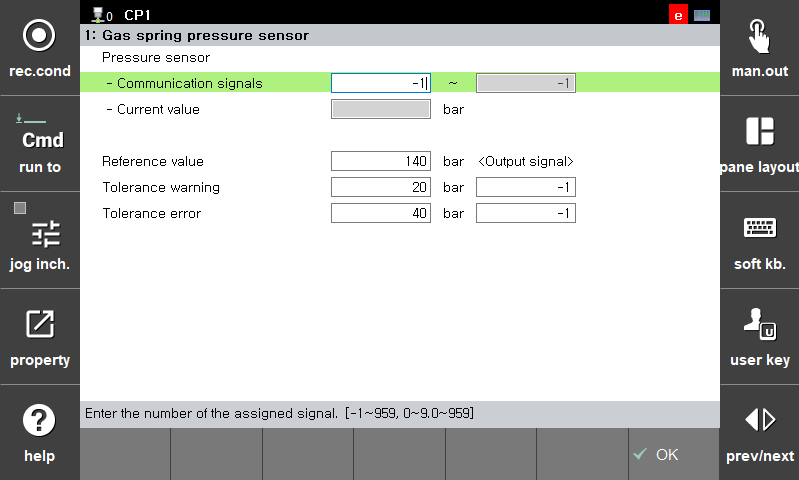
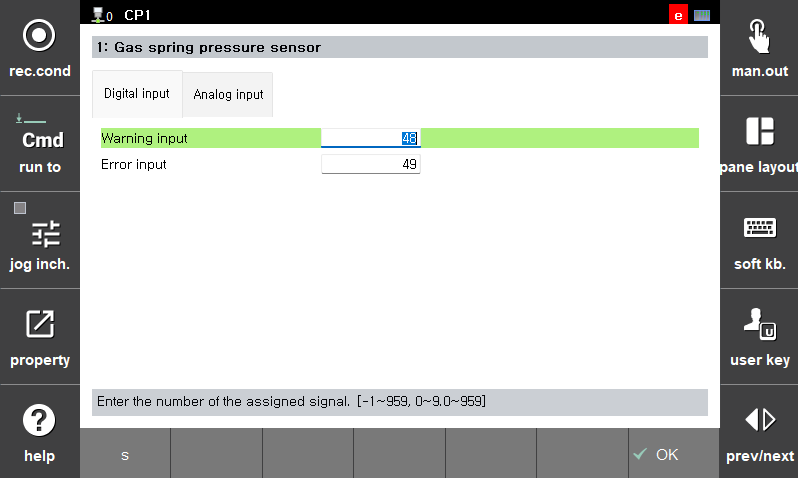
[HIXM-5044] 가스스프링 압력센서 디지털 입력 인터페이스 개발
(cherry picked from commit b3b3189b3095de6ce06d4d383303db639f31d38b)

diff --git a/book.md b/book.md
@@ -6801,9 +6801,42 @@ It is used for various functions to diagnose failures in robot systems.
 
 # 7.4.13.1 Gas spring pressure sensor
 
-The gas spring pressure sensor function is used to detect pressure abnormalities in the gas spring by constantly reading the value of the pressure sensor in a robot that uses a gas spring and has a pressure sensor (PU5400) specified by our company attached to it. <br> 
+The gas spring pressure sensor function is used to detect abnormal pressure in the gas spring by constantly reading the value of the pressure sensor through analog input or to generate a warning or error through digital input in a robot that uses a gas spring and has a pressure sensor (PN2570) specified by our company attached to it. <br> 
 
+[Digital input]
 ![](../../../_assets/tp630/gasp_sensor.png)
+
+<table>
+  <thead>
+    <tr>
+      <th style="text-align:left">Item</th>
+      <th style="text-align:left">Description</th>
+    </tr>
+  </thead>
+  <tbody>
+    <tr>
+      <td style="text-align:left"> 
+        Warning input
+      </td>
+      <td style="text-align:left">
+        Sets the signal number to receive a warning. Pressure sensors can output a warning when the measured pressure exceeds a set tolerance. The controller generates W21020 when the set signal turns on. 
+      </td>
+    </tr>
+    <tr>
+      <td style="text-align:left"> 
+        Error input
+      </td>
+      <td style="text-align:left">
+        Sets the signal number to receive a warning. Pressure sensors can output a warning when the measured pressure exceeds a set tolerance. The controller generates E21020 when the set signal turns on. 
+      </td>
+    </tr>
+  </tbody>
+</table>
+
+<br>
+
+[Analog input]
+![](../../../_assets/tp630/gasp_sensor2.png)
 
 <table>
   <thead>
@@ -6859,8 +6892,9 @@ The gas spring pressure sensor function is used to detect pressure abnormalities
 </table>
 
 <br>
+
 {% hint style="info" %}
-This feature is supported in versions V60.30.07 and later.   
+* This feature is supported in versions V60.30.07 and later.   
 {% endhint %}
 # 7.5 Application Parameters
 

diff --git a/7-system/4-robot-parameter/13-system-diagnosis/1-gas-spring-pressure_sensor.md b/7-system/4-robot-parameter/13-system-diagnosis/1-gas-spring-pressure_sensor.md
@@ -1,8 +1,41 @@
 # 7.4.13.1 Gas spring pressure sensor
 
-The gas spring pressure sensor function is used to detect pressure abnormalities in the gas spring by constantly reading the value of the pressure sensor in a robot that uses a gas spring and has a pressure sensor (PU5400) specified by our company attached to it. <br> 
+The gas spring pressure sensor function is used to detect abnormal pressure in the gas spring by constantly reading the value of the pressure sensor through analog input or to generate a warning or error through digital input in a robot that uses a gas spring and has a pressure sensor (PN2570) specified by our company attached to it. <br> 
 
+[Digital input]
 ![](../../../_assets/tp630/gasp_sensor.png)
+
+<table>
+  <thead>
+    <tr>
+      <th style="text-align:left">Item</th>
+      <th style="text-align:left">Description</th>
+    </tr>
+  </thead>
+  <tbody>
+    <tr>
+      <td style="text-align:left"> 
+        Warning input
+      </td>
+      <td style="text-align:left">
+        Sets the signal number to receive a warning. Pressure sensors can output a warning when the measured pressure exceeds a set tolerance. The controller generates W21020 when the set signal turns on. 
+      </td>
+    </tr>
+    <tr>
+      <td style="text-align:left"> 
+        Error input
+      </td>
+      <td style="text-align:left">
+        Sets the signal number to receive a warning. Pressure sensors can output a warning when the measured pressure exceeds a set tolerance. The controller generates E21020 when the set signal turns on. 
+      </td>
+    </tr>
+  </tbody>
+</table>
+
+<br>
+
+[Analog input]
+![](../../../_assets/tp630/gasp_sensor2.png)
 
 <table>
   <thead>
@@ -58,6 +91,7 @@ The gas spring pressure sensor function is used to detect pressure abnormalities
 </table>
 
 <br>
+
 {% hint style="info" %}
-This feature is supported in versions V60.30.07 and later.   
+* This feature is supported in versions V60.30.07 and later.   
 {% endhint %}
